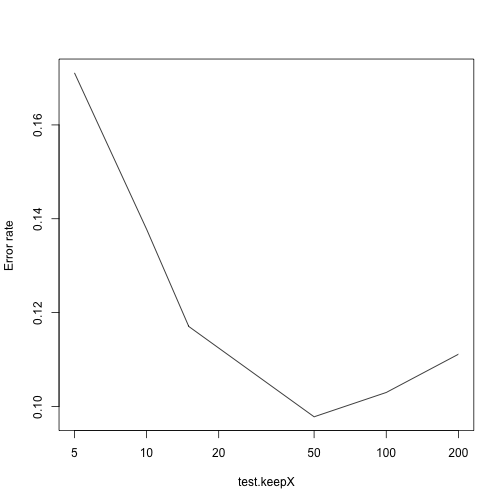
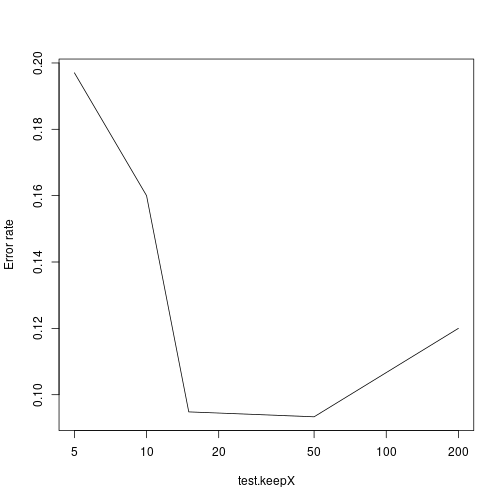
add sif

diff --git a/Workshops/biomarker_discovery/slides/slides.html b/Workshops/biomarker_discovery/slides/slides.html
@@ -4,6 +4,7 @@
     <title>Biomarker discovery and evaluation techniques</title>
     <meta charset="utf-8" />
     <meta name="author" content="Amrit Singh, PhD Department of Anesthesiology, Pharmacology and Therapeutics, UBC  Centre for Heart Lung Innovation" />
+    <script src="libs/header-attrs-2.14/header-attrs.js"></script>
     <link href="libs/remark-css-0.0.1/default.css" rel="stylesheet" />
     <link href="libs/remark-css-0.0.1/middlebury-fonts.css" rel="stylesheet" />
     <link rel="stylesheet" href="theme.css" type="text/css" />
@@ -19,7 +20,7 @@ class: center, middle, my-title, title-slide
 ### Amrit Singh, PhD<br><span style="font-size: 65%;">Department of Anesthesiology, Pharmacology and Therapeutics, UBC<br> Centre for Heart Lung Innovation</span>
 ]
 .date[
-### August 05, 2022 | 12:00-14:00<br><br><svg aria-hidden="true" role="img" viewBox="0 0 512 512" style="height:1em;width:1em;vertical-align:-0.125em;margin-left:auto;margin-right:auto;font-size:inherit;fill:currentColor;overflow:visible;position:relative;"><path d="M326.612 185.391c59.747 59.809 58.927 155.698.36 214.59-.11.12-.24.25-.36.37l-67.2 67.2c-59.27 59.27-155.699 59.262-214.96 0-59.27-59.26-59.27-155.7 0-214.96l37.106-37.106c9.84-9.84 26.786-3.3 27.294 10.606.648 17.722 3.826 35.527 9.69 52.721 1.986 5.822.567 12.262-3.783 16.612l-13.087 13.087c-28.026 28.026-28.905 73.66-1.155 101.96 28.024 28.579 74.086 28.749 102.325.51l67.2-67.19c28.191-28.191 28.073-73.757 0-101.83-3.701-3.694-7.429-6.564-10.341-8.569a16.037 16.037 0 0 1-6.947-12.606c-.396-10.567 3.348-21.456 11.698-29.806l21.054-21.055c5.521-5.521 14.182-6.199 20.584-1.731a152.482 152.482 0 0 1 20.522 17.197zM467.547 44.449c-59.261-59.262-155.69-59.27-214.96 0l-67.2 67.2c-.12.12-.25.25-.36.37-58.566 58.892-59.387 154.781.36 214.59a152.454 152.454 0 0 0 20.521 17.196c6.402 4.468 15.064 3.789 20.584-1.731l21.054-21.055c8.35-8.35 12.094-19.239 11.698-29.806a16.037 16.037 0 0 0-6.947-12.606c-2.912-2.005-6.64-4.875-10.341-8.569-28.073-28.073-28.191-73.639 0-101.83l67.2-67.19c28.239-28.239 74.3-28.069 102.325.51 27.75 28.3 26.872 73.934-1.155 101.96l-13.087 13.087c-4.35 4.35-5.769 10.79-3.783 16.612 5.864 17.194 9.042 34.999 9.69 52.721.509 13.906 17.454 20.446 27.294 10.606l37.106-37.106c59.271-59.259 59.271-155.699.001-214.959z"/></svg> <a href="https://cbl-hli.github.io/">lab</a><br><svg aria-hidden="true" role="img" viewBox="0 0 496 512" style="height:1em;width:0.97em;vertical-align:-0.125em;margin-left:auto;margin-right:auto;font-size:inherit;fill:currentColor;overflow:visible;position:relative;"><path d="M165.9 397.4c0 2-2.3 3.6-5.2 3.6-3.3.3-5.6-1.3-5.6-3.6 0-2 2.3-3.6 5.2-3.6 3-.3 5.6 1.3 5.6 3.6zm-31.1-4.5c-.7 2 1.3 4.3 4.3 4.9 2.6 1 5.6 0 6.2-2s-1.3-4.3-4.3-5.2c-2.6-.7-5.5.3-6.2 2.3zm44.2-1.7c-2.9.7-4.9 2.6-4.6 4.9.3 2 2.9 3.3 5.9 2.6 2.9-.7 4.9-2.6 4.6-4.6-.3-1.9-3-3.2-5.9-2.9zM244.8 8C106.1 8 0 113.3 0 252c0 110.9 69.8 205.8 169.5 239.2 12.8 2.3 17.3-5.6 17.3-12.1 0-6.2-.3-40.4-.3-61.4 0 0-70 15-84.7-29.8 0 0-11.4-29.1-27.8-36.6 0 0-22.9-15.7 1.6-15.4 0 0 24.9 2 38.6 25.8 21.9 38.6 58.6 27.5 72.9 20.9 2.3-16 8.8-27.1 16-33.7-55.9-6.2-112.3-14.3-112.3-110.5 0-27.5 7.6-41.3 23.6-58.9-2.6-6.5-11.1-33.3 2.6-67.9 20.9-6.5 69 27 69 27 20-5.6 41.5-8.5 62.8-8.5s42.8 2.9 62.8 8.5c0 0 48.1-33.6 69-27 13.7 34.7 5.2 61.4 2.6 67.9 16 17.7 25.8 31.5 25.8 58.9 0 96.5-58.9 104.2-114.8 110.5 9.2 7.9 17 22.9 17 46.4 0 33.7-.3 75.4-.3 83.6 0 6.5 4.6 14.4 17.3 12.1C428.2 457.8 496 362.9 496 252 496 113.3 383.5 8 244.8 8zM97.2 352.9c-1.3 1-1 3.3.7 5.2 1.6 1.6 3.9 2.3 5.2 1 1.3-1 1-3.3-.7-5.2-1.6-1.6-3.9-2.3-5.2-1zm-10.8-8.1c-.7 1.3.3 2.9 2.3 3.9 1.6 1 3.6.7 4.3-.7.7-1.3-.3-2.9-2.3-3.9-2-.6-3.6-.3-4.3.7zm32.4 35.6c-1.6 1.3-1 4.3 1.3 6.2 2.3 2.3 5.2 2.6 6.5 1 1.3-1.3.7-4.3-1.3-6.2-2.2-2.3-5.2-2.6-6.5-1zm-11.4-14.7c-1.6 1-1.6 3.6 0 5.9 1.6 2.3 4.3 3.3 5.6 2.3 1.6-1.3 1.6-3.9 0-6.2-1.4-2.3-4-3.3-5.6-2z"/></svg> <a href="https://github.com/Phillip-a-richmond/PrecisionHealthVirtualEnvironment/tree/main/Workshops">code</a><br><svg aria-hidden="true" role="img" viewBox="0 0 512 512" style="height:1em;width:1em;vertical-align:-0.125em;margin-left:auto;margin-right:auto;font-size:inherit;fill:currentColor;overflow:visible;position:relative;"><path d="M459.37 151.716c.325 4.548.325 9.097.325 13.645 0 138.72-105.583 298.558-298.558 298.558-59.452 0-114.68-17.219-161.137-47.106 8.447.974 16.568 1.299 25.34 1.299 49.055 0 94.213-16.568 130.274-44.832-46.132-.975-84.792-31.188-98.112-72.772 6.498.974 12.995 1.624 19.818 1.624 9.421 0 18.843-1.3 27.614-3.573-48.081-9.747-84.143-51.98-84.143-102.985v-1.299c13.969 7.797 30.214 12.67 47.431 13.319-28.264-18.843-46.781-51.005-46.781-87.391 0-19.492 5.197-37.36 14.294-52.954 51.655 63.675 129.3 105.258 216.365 109.807-1.624-7.797-2.599-15.918-2.599-24.04 0-57.828 46.782-104.934 104.934-104.934 30.213 0 57.502 12.67 76.67 33.137 23.715-4.548 46.456-13.32 66.599-25.34-7.798 24.366-24.366 44.833-46.132 57.827 21.117-2.273 41.584-8.122 60.426-16.243-14.292 20.791-32.161 39.308-52.628 54.253z"/></svg> <a href="https://twitter.com/asingh_22g">asingh_22g</a>
+### August 05, 2022 | 12:00-14:00<br><br><svg aria-hidden="true" role="img" viewBox="0 0 640 512" style="height:1em;width:1.25em;vertical-align:-0.125em;margin-left:auto;margin-right:auto;font-size:inherit;fill:currentColor;overflow:visible;position:relative;"><path d="M172.5 131.1C228.1 75.51 320.5 75.51 376.1 131.1C426.1 181.1 433.5 260.8 392.4 318.3L391.3 319.9C381 334.2 361 337.6 346.7 327.3C332.3 317 328.9 297 339.2 282.7L340.3 281.1C363.2 249 359.6 205.1 331.7 177.2C300.3 145.8 249.2 145.8 217.7 177.2L105.5 289.5C73.99 320.1 73.99 372 105.5 403.5C133.3 431.4 177.3 435 209.3 412.1L210.9 410.1C225.3 400.7 245.3 404 255.5 418.4C265.8 432.8 262.5 452.8 248.1 463.1L246.5 464.2C188.1 505.3 110.2 498.7 60.21 448.8C3.741 392.3 3.741 300.7 60.21 244.3L172.5 131.1zM467.5 380C411 436.5 319.5 436.5 263 380C213 330 206.5 251.2 247.6 193.7L248.7 192.1C258.1 177.8 278.1 174.4 293.3 184.7C307.7 194.1 311.1 214.1 300.8 229.3L299.7 230.9C276.8 262.1 280.4 306.9 308.3 334.8C339.7 366.2 390.8 366.2 422.3 334.8L534.5 222.5C566 191 566 139.1 534.5 108.5C506.7 80.63 462.7 76.99 430.7 99.9L429.1 101C414.7 111.3 394.7 107.1 384.5 93.58C374.2 79.2 377.5 59.21 391.9 48.94L393.5 47.82C451 6.731 529.8 13.25 579.8 63.24C636.3 119.7 636.3 211.3 579.8 267.7L467.5 380z"/></svg> <a href="https://cbl-hli.github.io/">lab</a><br><svg aria-hidden="true" role="img" viewBox="0 0 496 512" style="height:1em;width:0.97em;vertical-align:-0.125em;margin-left:auto;margin-right:auto;font-size:inherit;fill:currentColor;overflow:visible;position:relative;"><path d="M165.9 397.4c0 2-2.3 3.6-5.2 3.6-3.3 .3-5.6-1.3-5.6-3.6 0-2 2.3-3.6 5.2-3.6 3-.3 5.6 1.3 5.6 3.6zm-31.1-4.5c-.7 2 1.3 4.3 4.3 4.9 2.6 1 5.6 0 6.2-2s-1.3-4.3-4.3-5.2c-2.6-.7-5.5 .3-6.2 2.3zm44.2-1.7c-2.9 .7-4.9 2.6-4.6 4.9 .3 2 2.9 3.3 5.9 2.6 2.9-.7 4.9-2.6 4.6-4.6-.3-1.9-3-3.2-5.9-2.9zM244.8 8C106.1 8 0 113.3 0 252c0 110.9 69.8 205.8 169.5 239.2 12.8 2.3 17.3-5.6 17.3-12.1 0-6.2-.3-40.4-.3-61.4 0 0-70 15-84.7-29.8 0 0-11.4-29.1-27.8-36.6 0 0-22.9-15.7 1.6-15.4 0 0 24.9 2 38.6 25.8 21.9 38.6 58.6 27.5 72.9 20.9 2.3-16 8.8-27.1 16-33.7-55.9-6.2-112.3-14.3-112.3-110.5 0-27.5 7.6-41.3 23.6-58.9-2.6-6.5-11.1-33.3 2.6-67.9 20.9-6.5 69 27 69 27 20-5.6 41.5-8.5 62.8-8.5s42.8 2.9 62.8 8.5c0 0 48.1-33.6 69-27 13.7 34.7 5.2 61.4 2.6 67.9 16 17.7 25.8 31.5 25.8 58.9 0 96.5-58.9 104.2-114.8 110.5 9.2 7.9 17 22.9 17 46.4 0 33.7-.3 75.4-.3 83.6 0 6.5 4.6 14.4 17.3 12.1C428.2 457.8 496 362.9 496 252 496 113.3 383.5 8 244.8 8zM97.2 352.9c-1.3 1-1 3.3 .7 5.2 1.6 1.6 3.9 2.3 5.2 1 1.3-1 1-3.3-.7-5.2-1.6-1.6-3.9-2.3-5.2-1zm-10.8-8.1c-.7 1.3 .3 2.9 2.3 3.9 1.6 1 3.6 .7 4.3-.7 .7-1.3-.3-2.9-2.3-3.9-2-.6-3.6-.3-4.3 .7zm32.4 35.6c-1.6 1.3-1 4.3 1.3 6.2 2.3 2.3 5.2 2.6 6.5 1 1.3-1.3 .7-4.3-1.3-6.2-2.2-2.3-5.2-2.6-6.5-1zm-11.4-14.7c-1.6 1-1.6 3.6 0 5.9 1.6 2.3 4.3 3.3 5.6 2.3 1.6-1.3 1.6-3.9 0-6.2-1.4-2.3-4-3.3-5.6-2z"/></svg> <a href="https://github.com/Phillip-a-richmond/PrecisionHealthVirtualEnvironment/tree/main/Workshops">code</a><br><svg aria-hidden="true" role="img" viewBox="0 0 512 512" style="height:1em;width:1em;vertical-align:-0.125em;margin-left:auto;margin-right:auto;font-size:inherit;fill:currentColor;overflow:visible;position:relative;"><path d="M459.4 151.7c.325 4.548 .325 9.097 .325 13.65 0 138.7-105.6 298.6-298.6 298.6-59.45 0-114.7-17.22-161.1-47.11 8.447 .974 16.57 1.299 25.34 1.299 49.06 0 94.21-16.57 130.3-44.83-46.13-.975-84.79-31.19-98.11-72.77 6.498 .974 12.99 1.624 19.82 1.624 9.421 0 18.84-1.3 27.61-3.573-48.08-9.747-84.14-51.98-84.14-102.1v-1.299c13.97 7.797 30.21 12.67 47.43 13.32-28.26-18.84-46.78-51.01-46.78-87.39 0-19.49 5.197-37.36 14.29-52.95 51.65 63.67 129.3 105.3 216.4 109.8-1.624-7.797-2.599-15.92-2.599-24.04 0-57.83 46.78-104.9 104.9-104.9 30.21 0 57.5 12.67 76.67 33.14 23.72-4.548 46.46-13.32 66.6-25.34-7.798 24.37-24.37 44.83-46.13 57.83 21.12-2.273 41.58-8.122 60.43-16.24-14.29 20.79-32.16 39.31-52.63 54.25z"/></svg> <a href="https://twitter.com/asingh_22g">asingh_22g</a>
 ]
 
 ---
@@ -229,11 +230,6 @@ class: center
 
 ## Overlap between biomarkers between the two approaches
 
-
-```
-## Loading required package: grid
-```
-
 ![](slides_files/figure-html/unnamed-chunk-6-1.png)&lt;!-- --&gt;
 
 ---
@@ -340,71 +336,71 @@ Accuracy: 0.97 and Balanced Accuracy: 0.97
 
 ## K-fold cross validation  (CV)
 
-.center[&lt;img src ="img/cv/Slide1.png" alt="cv_slide1", width="100%"/&gt;]
+.center[&lt;img src ="img/cv/Slide1.png" alt="cv_slide1", width="90%"/&gt;]
 
 ---
 
 ## K-fold cross validation  (4-fold CV)
 
-.center[&lt;img src ="img/cv/Slide2.png" alt="cv_slide2", width="100%"/&gt;]
+.center[&lt;img src ="img/cv/Slide2.png" alt="cv_slide2", width="90%"/&gt;]
 
 ---
 
 ## K-fold cross validation  (4-fold CV)
 
-.center[&lt;img src ="img/cv/Slide3.png" alt="cv_slide3", width="100%"/&gt;]
-
----
-
-## K-fold cross validation  (4-fold CV)
-* Note: many approaches can be used to create the final model
-.center[&lt;img src ="img/cv/Slide4.png" alt="cv_slide4", width="100%"/&gt;]
+.center[&lt;img src ="img/cv/Slide3.png" alt="cv_slide3", width="90%"/&gt;]
 
 ---
 
 ## K-fold cross validation  (4-fold CV)
 * Note: many approaches can be used to create the final model
-.center[&lt;img src ="img/cv/Slide5.png" alt="cv_slide5", width="100%"/&gt;]
-
+.center[&lt;img src ="img/cv/Slide4.png" alt="cv_slide4", width="90%"/&gt;]
 
 ---
 
 ## K-fold cross validation  (4-fold CV)
 * Note: many approaches can be used to create the final model
-.center[&lt;img src ="img/cv/Slide6.png" alt="cv_slide6", width="100%"/&gt;]
+.center[&lt;img src ="img/cv/Slide5.png" alt="cv_slide5", width="90%"/&gt;]
 
 
 ---
 
 ## K-fold cross validation  (4-fold CV)
 * Note: many approaches can be used to create the final model
-.center[&lt;img src ="img/cv/Slide7.png" alt="cv_slide7", width="100%"/&gt;]
+.center[&lt;img src ="img/cv/Slide6.png" alt="cv_slide6", width="90%"/&gt;]
 
 
 ---
 
 ## K-fold cross validation  (4-fold CV)
 * Note: many approaches can be used to create the final model
-.center[&lt;img src ="img/cv/Slide8.png" alt="cv_slide8", width="100%"/&gt;]
+.center[&lt;img src ="img/cv/Slide7.png" alt="cv_slide7", width="90%"/&gt;]
 
 
 ---
 
 ## K-fold cross validation  (4-fold CV)
 * Note: many approaches can be used to create the final model
-.center[&lt;img src ="img/cv/Slide9.png" alt="cv_slide9", width="100%"/&gt;]
+.center[&lt;img src ="img/cv/Slide8.png" alt="cv_slide8", width="90%"/&gt;]
+
 
 ---
 
 ## K-fold cross validation  (4-fold CV)
 * Note: many approaches can be used to create the final model
-.center[&lt;img src ="img/cv/Slide10.png" alt="cv_slide10", width="100%"/&gt;]
+.center[&lt;img src ="img/cv/Slide9.png" alt="cv_slide9", width="90%"/&gt;]
 
 ---
 
 ## K-fold cross validation  (4-fold CV)
 * Note: many approaches can be used to create the final model
-.center[&lt;img src ="img/cv/Slide11.png" alt="cv_slide11", width="100%"/&gt;]
+.center[&lt;img src ="img/cv/Slide10.png" alt="cv_slide10", width="90%"/&gt;]
+
+---
+
+## K-fold cross validation  (4-fold CV)
+* Note: many approaches can be used to create the final model
+.center[&lt;img src ="img/cv/Slide11.png" alt="cv_slide11", width="90%"/&gt;]
 
 ---
 
@@ -429,18 +425,18 @@ as_tibble(data.frame(names = names(biomarkers),
 
 ```
 ## # A tibble: 10 × 2
-##    names    pvalues
-##    &lt;chr&gt;      &lt;dbl&gt;
-##  1 gene646 0.000225
-##  2 gene345 0.000709
-##  3 gene649 0.00121 
-##  4 gene407 0.00146 
-##  5 gene128 0.00254 
-##  6 gene308 0.00885 
-##  7 gene291 0.00931 
-##  8 gene140 0.0105  
-##  9 gene873 0.0110  
-## 10 gene920 0.0118
+##    names   pvalues
+##    &lt;chr&gt;     &lt;dbl&gt;
+##  1 gene287 0.00105
+##  2 gene501 0.00173
+##  3 gene176 0.00317
+##  4 gene758 0.00378
+##  5 gene697 0.00419
+##  6 gene445 0.00423
+##  7 gene965 0.00437
+##  8 gene339 0.00597
+##  9 gene708 0.00597
+## 10 gene5   0.00618
 ```
 ]
 
@@ -473,7 +469,7 @@ cv$auc
 ```
 ## $comp1
 ## AUC.mean   AUC.sd 
-##   0.8888       NA
+##   0.8656       NA
 ```
 
 ]
@@ -494,7 +490,7 @@ cv$auc
 ```
 ## $comp1
 ## AUC.mean   AUC.sd 
-##   0.5456       NA
+##   0.5056       NA
 ```
 
 ]
@@ -537,7 +533,7 @@ pROC::auc(group[unlist(cvIndex)], unlist(predictions), plot = TRUE)
 &lt;img src="slides_files/figure-html/unnamed-chunk-16-1.png" width="60%" /&gt;
 
 ```
-## Area under the curve: 0.5096
+## Area under the curve: 0.532
 ```
 ]
 
@@ -637,7 +633,7 @@ predictions &lt;- lapply(cvIndex, function(fold){
 ```
 
 ```
-## [1] 200
+## [1] 50
 ```
 
 ```
@@ -645,7 +641,15 @@ predictions &lt;- lapply(cvIndex, function(fold){
 ```
 
 ```
-## [1] 100
+## [1] 15
+```
+
+```
+## Calling 'tune.splsda'
+```
+
+```
+## [1] 15
 ```
 
 ```
@@ -663,14 +667,6 @@ predictions &lt;- lapply(cvIndex, function(fold){
 ```
 ## [1] 15
 ```
-
-```
-## Calling 'tune.splsda'
-```
-
-```
-## [1] 50
-```
 ]
 
 .pull-right[
@@ -684,7 +680,7 @@ sum(diag(conf_matrix))/sum(conf_matrix)
 ```
 
 ```
-## [1] 0.9066667
+## [1] 0.8733333
 ```
 
 
@@ -696,7 +692,7 @@ mean(diag(conf_matrix)/colSums(conf_matrix))
 ```
 
 ```
-## [1] 0.8888889
+## [1] 0.8607407
 ```
 
 ]
@@ -773,7 +769,7 @@ background-image: url(img/bkg.svg)
 
 # THANK YOU!
 
-August 05, 2022 | 12:00-14:00&lt;br&gt;&lt;br&gt;<svg aria-hidden="true" role="img" viewBox="0 0 512 512" style="height:1em;width:1em;vertical-align:-0.125em;margin-left:auto;margin-right:auto;font-size:inherit;fill:currentColor;overflow:visible;position:relative;"><path d="M326.612 185.391c59.747 59.809 58.927 155.698.36 214.59-.11.12-.24.25-.36.37l-67.2 67.2c-59.27 59.27-155.699 59.262-214.96 0-59.27-59.26-59.27-155.7 0-214.96l37.106-37.106c9.84-9.84 26.786-3.3 27.294 10.606.648 17.722 3.826 35.527 9.69 52.721 1.986 5.822.567 12.262-3.783 16.612l-13.087 13.087c-28.026 28.026-28.905 73.66-1.155 101.96 28.024 28.579 74.086 28.749 102.325.51l67.2-67.19c28.191-28.191 28.073-73.757 0-101.83-3.701-3.694-7.429-6.564-10.341-8.569a16.037 16.037 0 0 1-6.947-12.606c-.396-10.567 3.348-21.456 11.698-29.806l21.054-21.055c5.521-5.521 14.182-6.199 20.584-1.731a152.482 152.482 0 0 1 20.522 17.197zM467.547 44.449c-59.261-59.262-155.69-59.27-214.96 0l-67.2 67.2c-.12.12-.25.25-.36.37-58.566 58.892-59.387 154.781.36 214.59a152.454 152.454 0 0 0 20.521 17.196c6.402 4.468 15.064 3.789 20.584-1.731l21.054-21.055c8.35-8.35 12.094-19.239 11.698-29.806a16.037 16.037 0 0 0-6.947-12.606c-2.912-2.005-6.64-4.875-10.341-8.569-28.073-28.073-28.191-73.639 0-101.83l67.2-67.19c28.239-28.239 74.3-28.069 102.325.51 27.75 28.3 26.872 73.934-1.155 101.96l-13.087 13.087c-4.35 4.35-5.769 10.79-3.783 16.612 5.864 17.194 9.042 34.999 9.69 52.721.509 13.906 17.454 20.446 27.294 10.606l37.106-37.106c59.271-59.259 59.271-155.699.001-214.959z"/></svg> [lab](https://cbl-hli.github.io/)&lt;br&gt;<svg aria-hidden="true" role="img" viewBox="0 0 496 512" style="height:1em;width:0.97em;vertical-align:-0.125em;margin-left:auto;margin-right:auto;font-size:inherit;fill:currentColor;overflow:visible;position:relative;"><path d="M165.9 397.4c0 2-2.3 3.6-5.2 3.6-3.3.3-5.6-1.3-5.6-3.6 0-2 2.3-3.6 5.2-3.6 3-.3 5.6 1.3 5.6 3.6zm-31.1-4.5c-.7 2 1.3 4.3 4.3 4.9 2.6 1 5.6 0 6.2-2s-1.3-4.3-4.3-5.2c-2.6-.7-5.5.3-6.2 2.3zm44.2-1.7c-2.9.7-4.9 2.6-4.6 4.9.3 2 2.9 3.3 5.9 2.6 2.9-.7 4.9-2.6 4.6-4.6-.3-1.9-3-3.2-5.9-2.9zM244.8 8C106.1 8 0 113.3 0 252c0 110.9 69.8 205.8 169.5 239.2 12.8 2.3 17.3-5.6 17.3-12.1 0-6.2-.3-40.4-.3-61.4 0 0-70 15-84.7-29.8 0 0-11.4-29.1-27.8-36.6 0 0-22.9-15.7 1.6-15.4 0 0 24.9 2 38.6 25.8 21.9 38.6 58.6 27.5 72.9 20.9 2.3-16 8.8-27.1 16-33.7-55.9-6.2-112.3-14.3-112.3-110.5 0-27.5 7.6-41.3 23.6-58.9-2.6-6.5-11.1-33.3 2.6-67.9 20.9-6.5 69 27 69 27 20-5.6 41.5-8.5 62.8-8.5s42.8 2.9 62.8 8.5c0 0 48.1-33.6 69-27 13.7 34.7 5.2 61.4 2.6 67.9 16 17.7 25.8 31.5 25.8 58.9 0 96.5-58.9 104.2-114.8 110.5 9.2 7.9 17 22.9 17 46.4 0 33.7-.3 75.4-.3 83.6 0 6.5 4.6 14.4 17.3 12.1C428.2 457.8 496 362.9 496 252 496 113.3 383.5 8 244.8 8zM97.2 352.9c-1.3 1-1 3.3.7 5.2 1.6 1.6 3.9 2.3 5.2 1 1.3-1 1-3.3-.7-5.2-1.6-1.6-3.9-2.3-5.2-1zm-10.8-8.1c-.7 1.3.3 2.9 2.3 3.9 1.6 1 3.6.7 4.3-.7.7-1.3-.3-2.9-2.3-3.9-2-.6-3.6-.3-4.3.7zm32.4 35.6c-1.6 1.3-1 4.3 1.3 6.2 2.3 2.3 5.2 2.6 6.5 1 1.3-1.3.7-4.3-1.3-6.2-2.2-2.3-5.2-2.6-6.5-1zm-11.4-14.7c-1.6 1-1.6 3.6 0 5.9 1.6 2.3 4.3 3.3 5.6 2.3 1.6-1.3 1.6-3.9 0-6.2-1.4-2.3-4-3.3-5.6-2z"/></svg> [code](https://github.com/Phillip-a-richmond/PrecisionHealthVirtualEnvironment/tree/main/Workshops)&lt;br&gt;<svg aria-hidden="true" role="img" viewBox="0 0 512 512" style="height:1em;width:1em;vertical-align:-0.125em;margin-left:auto;margin-right:auto;font-size:inherit;fill:currentColor;overflow:visible;position:relative;"><path d="M459.37 151.716c.325 4.548.325 9.097.325 13.645 0 138.72-105.583 298.558-298.558 298.558-59.452 0-114.68-17.219-161.137-47.106 8.447.974 16.568 1.299 25.34 1.299 49.055 0 94.213-16.568 130.274-44.832-46.132-.975-84.792-31.188-98.112-72.772 6.498.974 12.995 1.624 19.818 1.624 9.421 0 18.843-1.3 27.614-3.573-48.081-9.747-84.143-51.98-84.143-102.985v-1.299c13.969 7.797 30.214 12.67 47.431 13.319-28.264-18.843-46.781-51.005-46.781-87.391 0-19.492 5.197-37.36 14.294-52.954 51.655 63.675 129.3 105.258 216.365 109.807-1.624-7.797-2.599-15.918-2.599-24.04 0-57.828 46.782-104.934 104.934-104.934 30.213 0 57.502 12.67 76.67 33.137 23.715-4.548 46.456-13.32 66.599-25.34-7.798 24.366-24.366 44.833-46.132 57.827 21.117-2.273 41.584-8.122 60.426-16.243-14.292 20.791-32.161 39.308-52.628 54.253z"/></svg> [asingh_22g](https://twitter.com/asingh_22g)
+August 05, 2022 | 12:00-14:00&lt;br&gt;&lt;br&gt;<svg aria-hidden="true" role="img" viewBox="0 0 640 512" style="height:1em;width:1.25em;vertical-align:-0.125em;margin-left:auto;margin-right:auto;font-size:inherit;fill:currentColor;overflow:visible;position:relative;"><path d="M172.5 131.1C228.1 75.51 320.5 75.51 376.1 131.1C426.1 181.1 433.5 260.8 392.4 318.3L391.3 319.9C381 334.2 361 337.6 346.7 327.3C332.3 317 328.9 297 339.2 282.7L340.3 281.1C363.2 249 359.6 205.1 331.7 177.2C300.3 145.8 249.2 145.8 217.7 177.2L105.5 289.5C73.99 320.1 73.99 372 105.5 403.5C133.3 431.4 177.3 435 209.3 412.1L210.9 410.1C225.3 400.7 245.3 404 255.5 418.4C265.8 432.8 262.5 452.8 248.1 463.1L246.5 464.2C188.1 505.3 110.2 498.7 60.21 448.8C3.741 392.3 3.741 300.7 60.21 244.3L172.5 131.1zM467.5 380C411 436.5 319.5 436.5 263 380C213 330 206.5 251.2 247.6 193.7L248.7 192.1C258.1 177.8 278.1 174.4 293.3 184.7C307.7 194.1 311.1 214.1 300.8 229.3L299.7 230.9C276.8 262.1 280.4 306.9 308.3 334.8C339.7 366.2 390.8 366.2 422.3 334.8L534.5 222.5C566 191 566 139.1 534.5 108.5C506.7 80.63 462.7 76.99 430.7 99.9L429.1 101C414.7 111.3 394.7 107.1 384.5 93.58C374.2 79.2 377.5 59.21 391.9 48.94L393.5 47.82C451 6.731 529.8 13.25 579.8 63.24C636.3 119.7 636.3 211.3 579.8 267.7L467.5 380z"/></svg> [lab](https://cbl-hli.github.io/)&lt;br&gt;<svg aria-hidden="true" role="img" viewBox="0 0 496 512" style="height:1em;width:0.97em;vertical-align:-0.125em;margin-left:auto;margin-right:auto;font-size:inherit;fill:currentColor;overflow:visible;position:relative;"><path d="M165.9 397.4c0 2-2.3 3.6-5.2 3.6-3.3 .3-5.6-1.3-5.6-3.6 0-2 2.3-3.6 5.2-3.6 3-.3 5.6 1.3 5.6 3.6zm-31.1-4.5c-.7 2 1.3 4.3 4.3 4.9 2.6 1 5.6 0 6.2-2s-1.3-4.3-4.3-5.2c-2.6-.7-5.5 .3-6.2 2.3zm44.2-1.7c-2.9 .7-4.9 2.6-4.6 4.9 .3 2 2.9 3.3 5.9 2.6 2.9-.7 4.9-2.6 4.6-4.6-.3-1.9-3-3.2-5.9-2.9zM244.8 8C106.1 8 0 113.3 0 252c0 110.9 69.8 205.8 169.5 239.2 12.8 2.3 17.3-5.6 17.3-12.1 0-6.2-.3-40.4-.3-61.4 0 0-70 15-84.7-29.8 0 0-11.4-29.1-27.8-36.6 0 0-22.9-15.7 1.6-15.4 0 0 24.9 2 38.6 25.8 21.9 38.6 58.6 27.5 72.9 20.9 2.3-16 8.8-27.1 16-33.7-55.9-6.2-112.3-14.3-112.3-110.5 0-27.5 7.6-41.3 23.6-58.9-2.6-6.5-11.1-33.3 2.6-67.9 20.9-6.5 69 27 69 27 20-5.6 41.5-8.5 62.8-8.5s42.8 2.9 62.8 8.5c0 0 48.1-33.6 69-27 13.7 34.7 5.2 61.4 2.6 67.9 16 17.7 25.8 31.5 25.8 58.9 0 96.5-58.9 104.2-114.8 110.5 9.2 7.9 17 22.9 17 46.4 0 33.7-.3 75.4-.3 83.6 0 6.5 4.6 14.4 17.3 12.1C428.2 457.8 496 362.9 496 252 496 113.3 383.5 8 244.8 8zM97.2 352.9c-1.3 1-1 3.3 .7 5.2 1.6 1.6 3.9 2.3 5.2 1 1.3-1 1-3.3-.7-5.2-1.6-1.6-3.9-2.3-5.2-1zm-10.8-8.1c-.7 1.3 .3 2.9 2.3 3.9 1.6 1 3.6 .7 4.3-.7 .7-1.3-.3-2.9-2.3-3.9-2-.6-3.6-.3-4.3 .7zm32.4 35.6c-1.6 1.3-1 4.3 1.3 6.2 2.3 2.3 5.2 2.6 6.5 1 1.3-1.3 .7-4.3-1.3-6.2-2.2-2.3-5.2-2.6-6.5-1zm-11.4-14.7c-1.6 1-1.6 3.6 0 5.9 1.6 2.3 4.3 3.3 5.6 2.3 1.6-1.3 1.6-3.9 0-6.2-1.4-2.3-4-3.3-5.6-2z"/></svg> [code](https://github.com/Phillip-a-richmond/PrecisionHealthVirtualEnvironment/tree/main/Workshops)&lt;br&gt;<svg aria-hidden="true" role="img" viewBox="0 0 512 512" style="height:1em;width:1em;vertical-align:-0.125em;margin-left:auto;margin-right:auto;font-size:inherit;fill:currentColor;overflow:visible;position:relative;"><path d="M459.4 151.7c.325 4.548 .325 9.097 .325 13.65 0 138.7-105.6 298.6-298.6 298.6-59.45 0-114.7-17.22-161.1-47.11 8.447 .974 16.57 1.299 25.34 1.299 49.06 0 94.21-16.57 130.3-44.83-46.13-.975-84.79-31.19-98.11-72.77 6.498 .974 12.99 1.624 19.82 1.624 9.421 0 18.84-1.3 27.61-3.573-48.08-9.747-84.14-51.98-84.14-102.1v-1.299c13.97 7.797 30.21 12.67 47.43 13.32-28.26-18.84-46.78-51.01-46.78-87.39 0-19.49 5.197-37.36 14.29-52.95 51.65 63.67 129.3 105.3 216.4 109.8-1.624-7.797-2.599-15.92-2.599-24.04 0-57.83 46.78-104.9 104.9-104.9 30.21 0 57.5 12.67 76.67 33.14 23.72-4.548 46.46-13.32 66.6-25.34-7.798 24.37-24.37 44.83-46.13 57.83 21.12-2.273 41.58-8.122 60.43-16.24-14.29 20.79-32.16 39.31-52.63 54.25z"/></svg> [asingh_22g](https://twitter.com/asingh_22g)
     </textarea>
 <style data-target="print-only">@media screen {.remark-slide-container{display:block;}.remark-slide-scaler{box-shadow:none;}}</style>
 <script src="https://remarkjs.com/downloads/remark-latest.min.js"></script>
